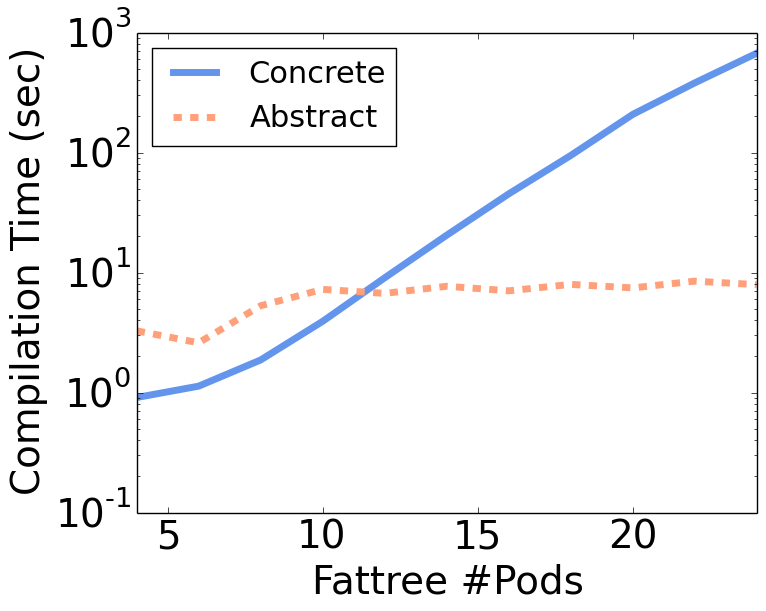
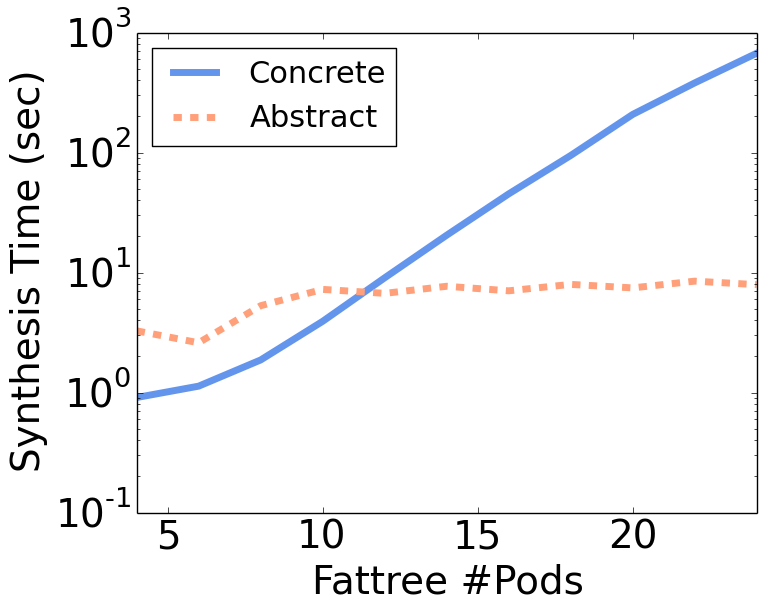
fix references. fix spelling mistakes

Changed region(s): [[0.0, 0.0622, 0.0601, 0.8085]]

diff --git a/paper/abstraction/paper.tex b/paper/abstraction/paper.tex
@@ -495,7 +495,7 @@ Figure~\ref{fig:templates} shows an example of what a small component of a templ
 %Templates provide two key advantages. First, they help eliminate a class of configuration errors that stem from typos and inconsistencies, e.g., using the wrong address for a router, having inconsistent addresses for the two ends of a link, and failing to configure one side of a routing adjacency.  Second, templates have the potential for re-use when the topology changes while maintaining its basic structure (e.g., adding a new pod to the data center) or multiple networks with similar structures need to be instantiated (e.g., in an organization that runs multiple data centers).
 
 As described earlier (\S\ref{sec:introduction}), templates are hard to author and hard to validate. Worse, templates that work for one topology may not work for seemingly-inconsequential variations (which may arise after the network evolves).
-Consider the network in Figure~\ref{fig:example2}, which is similar to Figure~\ref{fig:example}: it has the same five roles, connected in a similar hierarchy. One might think that the same templates (with different database entries) can be used for both cases. However, if the templates are configured to disallow ``valley" paths (per policy (5) above), they will work for Figure~\ref{fig:example} but silently violate the fault tolerance policy $(8)$ when used for Figure~\ref{fig:example2}.  Specifically, in Figure~\ref{fig:example2}, an aggregation-based blackhole (\S\ref{sec:background}) will occur when the link S1--A1 fails; after this failure, S1 has no valley-free path to P[1--2] even though it will continue to get traffic for these prefixes as it announces the covering prefix PG (because it gets routes for P[3--4]). No such blackhole will occur in Figure~\ref{fig:example} after a single link failure because spine routers have two links to each pod.
+Consider the network in Figure~\ref{fig:example2}, which is similar to Figure~\ref{fig:example}: it has the same five roles, connected in a similar hierarchy. One might think that the same templates (with different database entries) can be used for both cases. However, if the templates are configured to disallow ``valley" paths (per policy (5) above), they will work for Figure~\ref{fig:example} but silently violate the fault tolerance policy $(8)$ when used for Figure~\ref{fig:example2}.  Specifically, in Figure~\ref{fig:example2}, an aggregation-based black hole (\S\ref{sec:background}) will occur when the link S1--A1 fails; after this failure, S1 has no valley-free path to P[1--2] even though it will continue to get traffic for these prefixes as it announces the covering prefix PG (because it gets routes for P[3--4]). No such black hole will occur in Figure~\ref{fig:example} after a single link failure because spine routers have two links to each pod.
 
 %Unfotunately, currently, there is no way to predict which variations will behave correctly for a given set of templates.
 
@@ -633,7 +633,7 @@ The primary one is a role-based abstraction that allows an operator to map route
   \vspace{-1em}
 \end{figure}
 
-More specifically, a network topology is a graph $G$ = ($V, E$), which consists of a set of vertices $V$ and a set of directed edges $E \colon V \times V$. A role-based abstraction is a graph homomorphism from $G$ to an abstract graph $G^A$ = ($V^A$,$E^A$). A graph homomorphism $f : G \rightarrow G^A$ maps each node in the concrete graph to a node in the abstract graph such that, whenever $(u,v) \in E$, then $(f(u),f(v)) \in E^A$. The role-based abstraction therefore overapproximates the connectivity of the underlying concrete graphs.
+More specifically, a network topology is a graph $G$ = ($V, E$), which consists of a set of vertices $V$ and a set of directed edges $E \colon V \times V$. A role-based abstraction is a graph homomorphism from $G$ to an abstract graph $G^A$ = ($V^A$,$E^A$). A graph homomorphism $f : G \rightarrow G^A$ maps each node in the concrete graph to a node in the abstract graph such that, whenever $(u,v) \in E$, then $(f(u),f(v)) \in E^A$. The role-based abstraction therefore over-approximates the connectivity of the underlying concrete graphs.
 
 On its own, this abstraction loses a lot of information about the concrete network's structure, making it difficult to reason precisely about fault-tolerance.
 %which would hinder a useful analysis of its fault-tolerance.
@@ -1477,7 +1477,7 @@ We evaluate \sysname by applying it on policies for backbone and data center net
 
       \multicolumn{6}{l}{\textbf{Tree-based topologies, valley-free routing}} \\ \hline
 
-      Fattree~\cite{fattree} & -- & \cmark & \cmark & \cmark & \cmark  \\ \hline
+      Fat tree~\cite{fattree} & -- & \cmark & \cmark & \cmark & \cmark  \\ \hline
       Facebook~\cite{facebook-fattree} & -- & \cmark & \cmark & \cmark & \cmark \\ \hline
       F10~\cite{f10-fattree} & -- & \cmark & \cmark & \cmark & \cmark \\ \hline
       VL2~\cite{vl2-fattree} & -- & \cmark & \cmark & \cmark & \cmark \\ \hline
@@ -1498,7 +1498,7 @@ We evaluate \sysname by applying it on policies for backbone and data center net
 
       \multicolumn{6}{l}{\textbf{All topologies, shortest-path routing}} \\ \hline
 
-      Fattree~\cite{fattree} & -- & \cmark & \cmark & \cmark & \Conserv  \\ \hline
+      Fat tree~\cite{fattree} & -- & \cmark & \cmark & \cmark & \Conserv  \\ \hline
       Facebook~\cite{facebook-fattree} & -- & \cmark & \cmark & \cmark & \cmark \\ \hline
       F10~\cite{f10-fattree} & -- & \cmark & \cmark & \cmark & \Conserv \\ \hline
       VL2~\cite{vl2-fattree} & -- & \cmark & \cmark & \cmark & \Conserv \\ \hline
@@ -1656,7 +1656,7 @@ This goal aligns better with operators' mental models and tools and permits netw
 While not the focus of this paper, \sysname can enable operators to pick the right design for their networks, more quickly and with stronger guarantees. Today, when picking a design, operators analyze its multiple concrete instantiations because available analysis tools work with concrete topologies~\cite{condor}. This process is time-consuming and not fool-proof; analyzing large, concrete topologies (with potentially thousands of nodes) takes a lot of time and the analysis does not cover the entire space of topologies that may arise.
 
 \para{Network verification}
-A complementary approach to reducing configuration errors is by analyzing the forwarding rules or the configuration of a network to ensure the absence of (a class of) bugs~\cite{anteater,hsa,veriflow,feamster+:rcc,ipassure,batfish,bagpipe,arc,era,surgery}. Our focus, in contrast, is on a correct-by-construction approach. It has the downside that operators must learn to express policies in a new language, but it saves them from the challenging and time-consuming task of manual configuration generation.
+A complementary approach to reducing configuration errors is to analyze the forwarding rules or the configuration of a network to ensure the absence of (a class of) bugs~\cite{anteater,hsa,veriflow,feamster+:rcc,ipassure,batfish,bagpipe,arc,era,surgery}. Our focus, in contrast, is on a correct-by-construction approach. It has the downside that operators must express policies in a new language, but it saves them from the challenging and time-consuming task of manual configuration generation.
 
 
 %\para{Configuration synthesis}

diff --git a/scripts/abstract/plot.py b/scripts/abstract/plot.py
@@ -110,12 +110,12 @@ def makeGraph(con, abs, name, descr):
   color3 = "#FCF5C7"
   color4 = "#A0CED9"
 
-  # Compilation times
+  # Synthesis times
   fig = plt.figure()
   plt.plot(sizeCon, totalCon, label="Concrete", linewidth=5.0, color="cornflowerblue")
   plt.plot(sizeAbs, totalAbs, label="Abstract", linewidth=5.0, linestyle='--', color="lightsalmon")
   plt.xlabel(descr, fontsize=28)
-  plt.ylabel('Compilation Time (sec)', fontsize=28)
+  plt.ylabel('Synthesis Time (sec)', fontsize=28)
   plt.tick_params(axis='both', which='major', labelsize=28)
   plt.tick_params(axis='both', which='minor', labelsize=28)
   if name == "Fattree":
@@ -143,7 +143,7 @@ def makeGraph(con, abs, name, descr):
   ax1.fill_between(sizeAbs, y_stack[1,:], y_stack[2,:], facecolor=color3)
   ax1.fill_between(sizeAbs, y_stack[2,:], y_stack[3,:], facecolor=color4)
   ax1.set_xlabel(descr, fontsize=28)
-  ax1.set_ylabel('Compilation Time (sec)', fontsize=28)
+  ax1.set_ylabel('Synthesis Time (sec)', fontsize=28)
   ax1.tick_params(axis='both', which='major', labelsize=28)
   ax1.tick_params(axis='both', which='minor', labelsize=28)
   if name == "Fattree":
